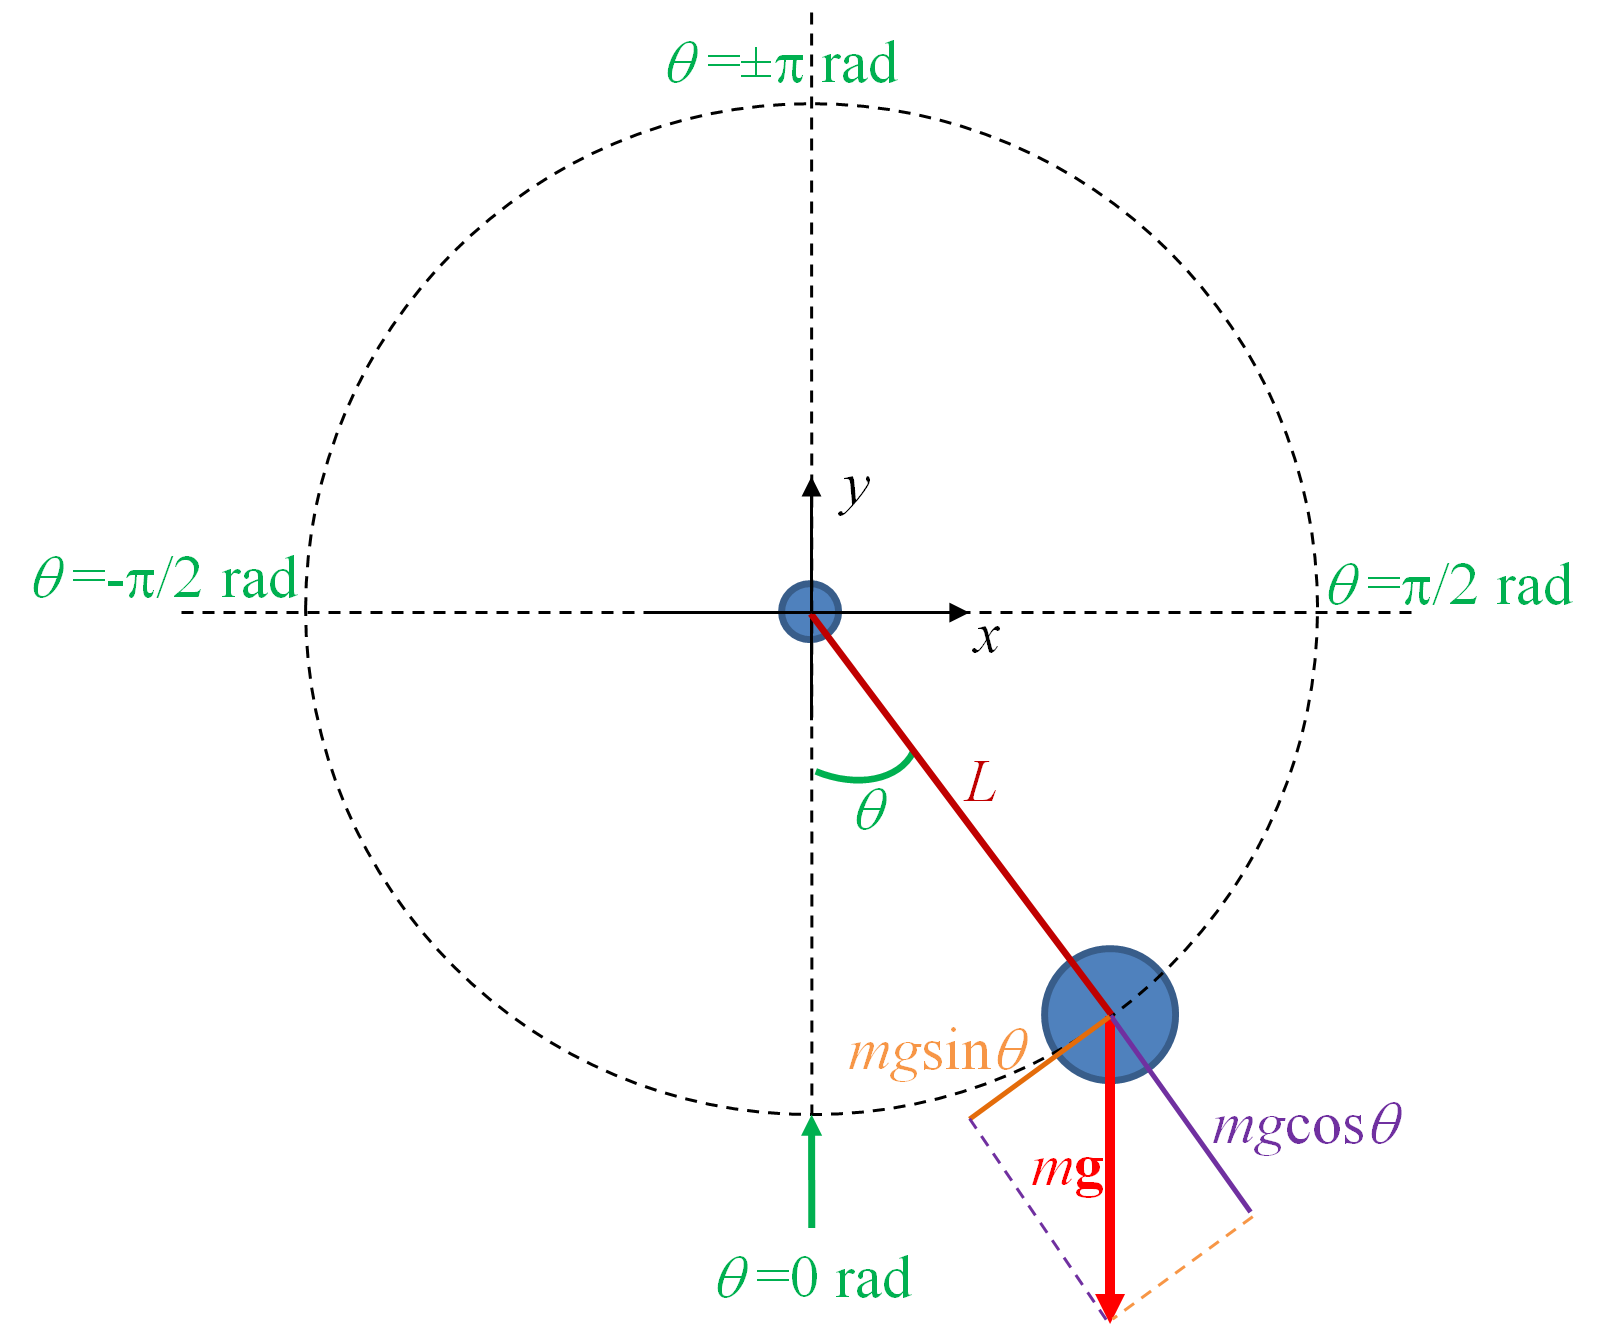
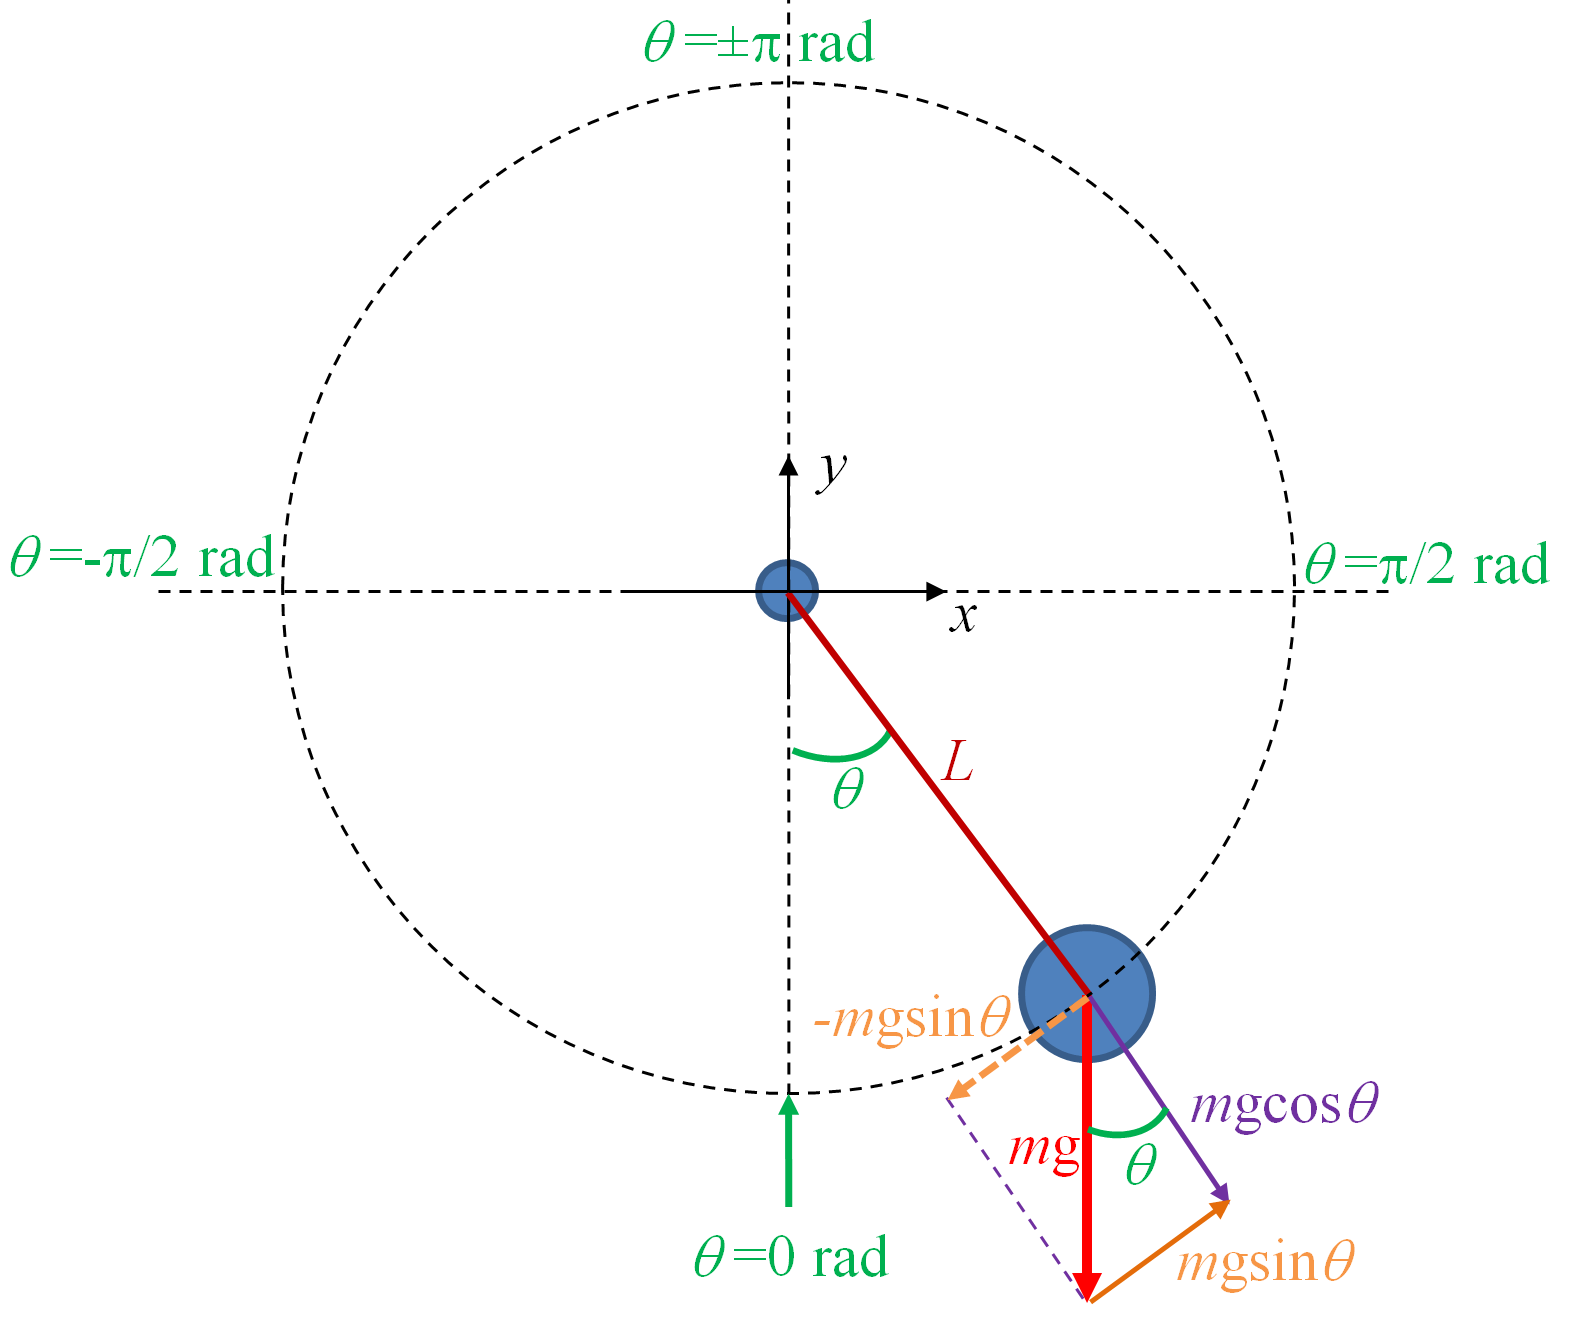
Ajoute explications projet pendule pas à pas

diff --git a/22_mini_projets_pas_a_pas.md b/22_mini_projets_pas_a_pas.md
@@ -447,19 +447,21 @@ Un pendule simple est représenté par une masse ponctuelle (la boule du pendule
 
 ![Bilan des forces dans un pendule simple.](img/pendulum_sketch.png){ #fig:pendulum_sketch width=80% }
 
-Les deux forces agissant sur la boule sont son poids (*P*) et la tension due à la tige (*T*). La tige du pendule étant rigide, le mouvement de la boule est restreint sur le cercle de rayon égal à la longueur de la tige (dessiné en pointillé). La force de tension étant orthogonale au mouvement du pendule, celle-ci n'aura pas d'effet sur la vitesse du pendule. Au final, on ne prendra en compte que la composante tangentielle due au poids (la composante orthognale due au poids n'a pas d'effet non plus). La figure @fig:pendulum_sketch2 montre cela et définit les grandeurs utiles pour la suite du traitement. 
+Les deux forces agissant sur la boule sont son poids (*P*) et la tension due à la tige (*T*). La norme de ses deux forces est constante.
 
 ![Caractérisation géométrique d'un pendule simple.](img/pendulum_sketch2.png){ #fig:pendulum_sketch2 width=80% }
 
-La coordonnée naturelle pour définir la position du pendule est l'angle $\theta$. Nous verrons plus tard comment convertir cet angle en coordonnées $(x, y)$ pour l'affichage dans un *canvas Tkinter*. Nous choisissons arbitrairement de fixer $\theta = 0$ lorsque le pendule est à sa position d'équilibre. Il s'agit de la position où la masse ponctuelle est au plus bas. C'est une position à laquelle le pendule ne bougera pas s'il n'a pas une vitesse préexistante. Le vecteur **g** décrit l'accélération due à la gravité. Les deux composantes (tangentielle et orthogonale) au mouvement du pendule sont représentées sur le schéma.
+La coordonnée naturelle pour définir la position du pendule est l'angle $\theta$. Nous verrons plus tard comment convertir cet angle en coordonnées $(x, y)$ pour l'affichage dans un *canvas Tkinter*. Nous choisissons arbitrairement de fixer $\theta = 0$ lorsque le pendule est à sa position d'équilibre. Il s'agit de la position où la masse ponctuelle est au plus bas. C'est une position à laquelle le pendule ne bougera pas s'il n'a pas une vitesse préexistante. *g* décrit l'accélération due à la gravité. Ses deux composantes (tangentielle et orthogonale) au mouvement du pendule sont représentées sur le schéma.
 
-Si on déplace le pendule de sa position d'équilibre, il sera mû par la force de gravité. Comme le système est considéré comme parfait (pas de frottement, gravité uniforme, etc.), le pendule ne s'arrêtera jamais. Si on le monte à $\theta = +20 deg$ et qu'on le lâche, le pendule redescendra en passant par $\theta = 0 deg$, remontera de l'autre côté à $\theta = -20 deg$, puis continuera de la sorte indéfiniment, grâce à la conservation de l'énergie dans un système fermé et parfait (c'st-à-dire sans « fuite » d'énergie). 
+Si on déplace le pendule de sa position d'équilibre, il sera mû par la force due à son poids. Comme le système est considéré comme parfait (pas de frottement, gravité uniforme, etc.), le pendule ne s'arrêtera jamais. Si on le monte à $\theta = +20 deg$ et qu'on le lâche, le pendule redescendra en passant par $\theta = 0 deg$, remontera de l'autre côté à $\theta = -20 deg$, puis continuera de la sorte indéfiniment, grâce à la conservation de l'énergie dans un système fermé (c'est-à-dire sans « fuite » d'énergie). 
 
 Ici, on va tenter de simuler ce mouvement en appliquant les [lois du mouvement de Newton](https://fr.wikipedia.org/wiki/Lois_du_mouvement_de_Newton) et en résolvant les équations correspondantes numériquement. D'après la seconde loi de Newton, la force (*F*) agissant sur la boule est égale à sa masse (*m*) fois son accélération (*a*) : 
 
 $$F=ma$$
 
-La force et l'accélération sont des grandeurs vectorielles, mais on utilise ici leur normer (d'où l'absence de flèche au dessus de leur nom). Par ailleurs, on rappelle que les lois de Newton décrivent les systèmes en utilisant les coordonnées cartésiennes des différentes grandeurs. Comme on considère le pendule comme idéal, on considèrera les coordonnées de n'importe quel point ou vecteur dans le plan 2D, par exemple $(x, y)$.
+La force et l'accélération sont des grandeurs vectorielles, mais on utilise ici leur norme (d'où l'absence de flèche au dessus de leur nom). Par ailleurs, on rappelle que les lois de Newton décrivent les systèmes en utilisant les coordonnées cartésiennes $(x, y)$ des différentes grandeurs (ici dans un plan à deux dimensions).
+
+Intéressons nous à cette force *F* influant sur l'accélération *a*. La tige du pendule étant rigide, le mouvement de la boule est restreint sur le cercle de rayon égal à la longueur *L* de la tige (dessiné en pointillé). La force de tension *T* étant orthogonale au mouvement du pendule, celle-ci n'aura pas d'effet sur l'accélération. De même, la composante orthognale $mgcos \theta$ due au poids n'aura pas d'effet non plus. Au final, on ne prendra en compte que la composante tangentielle due au poids, c'est-à-dire $-mg sin \theta$. La figure @fig:pendulum_sketch2 montre cela et définit les grandeurs utiles pour la suite du traitement. 
 
 Comme expliqué ci-dessus, seule la composante tangentielle du poids rentre en compte dans la force qui meut le pendule, c'est-à-dire $mg sin \theta$. Ainsi : 
 
@@ -469,7 +471,7 @@ Si on exprime l'accélération, on trouve ce résultat qui peut sembler peu intu
 
 $$a=-g sin \theta$$
 
-Le mouvement du pendule ne dépend donc pas de sa masse !
+Le mouvement du pendule ne dépend donc pas de sa masse ! Autre particularité, le signe $-$ dans cette formule montre que l'accélération s'oppose à $\theta$. Lorsque cet angle devient plus positif, ou plus négatif, l'accélération tendra toujours à le faire revenir à sa position d'équilibre ($\theta = 0$).
 
 Qqs ressources :
 
